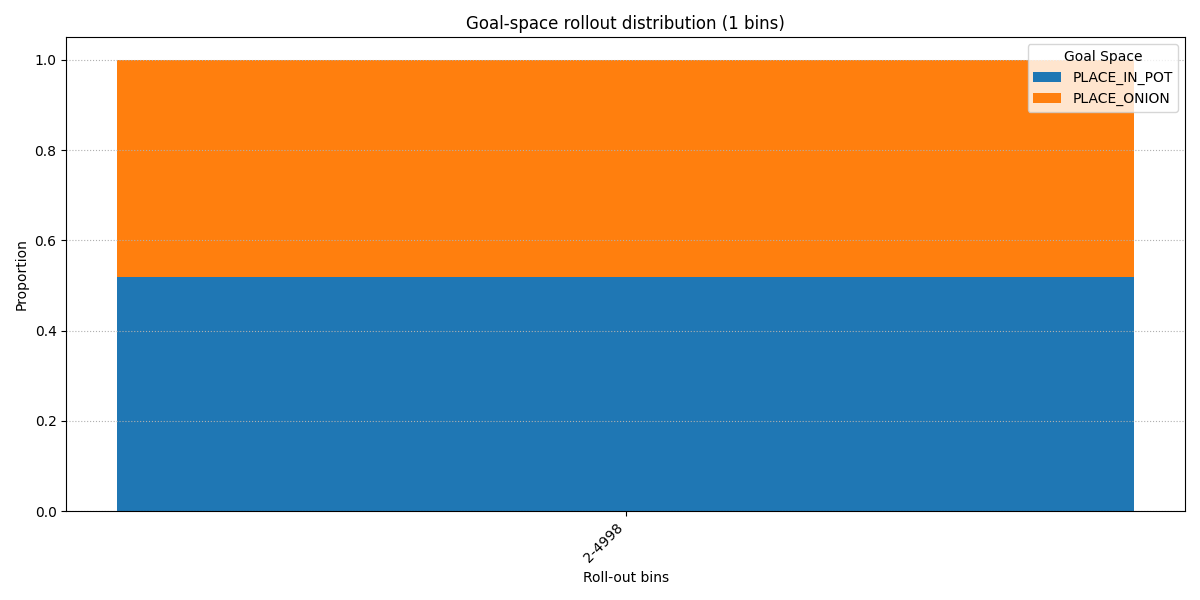
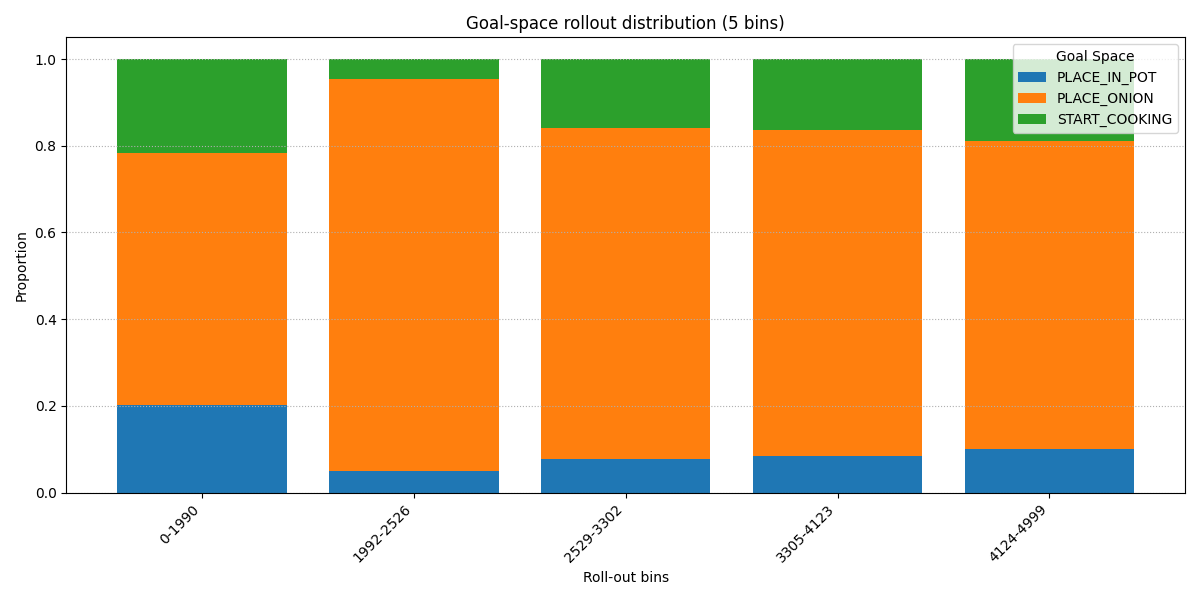
Semi working version with shared goal exploration

diff --git a/IMGEP_agent/agent/agent.py b/IMGEP_agent/agent/agent.py
@@ -73,6 +73,8 @@ class IMGEPAgent(Agent):
         ]  # Put the main neuro policy in the first position
 
     def action(self, state: OvercookedState) -> Action:
+        if self.goal_reach_time_step:
+            return Action.STAY
         self.t += 1
 
         gs = self.goal_space_neuro_policies[-1].goal
@@ -103,26 +105,36 @@ class IMGEPAgent(Agent):
         obs_vec = get_goal_policy_input_vector(state, self.mdp, self.mp, self.agent_id)
 
         # ----------------- high-level action selection ----------------------
-        neuro_policy_token = self.goal_space_neuro_policies[-1].neuro_policy.select_token(obs_vec, greedy=True)
+        neuro_policy_token = self.goal_space_neuro_policies[-1].neuro_policy.select_token(obs_vec, greedy=exploit)
+        if neuro_policy_token >= len(HighLevelActions):
+            selected_goal = self.goal_spaces[neuro_policy_token - len(HighLevelActions)]
+            # If the chosen goal is itself or the fitness is not high enough, do not use the decision to use this
+            rec = self.kb.nearest(goal=selected_goal, k=1, exploit=True)
+
+            if rec and rec[0].fitness >= self.config.minimum_goal_fitness and selected_goal != gs:
+                self.goal_space_neuro_policies.append(
+                    GoalSpaceNeuroPolicy(
+                        goal=selected_goal,
+                        neuro_policy=get_neuro_policy(
+                            selected_goal=selected_goal,
+                            kb=self.kb,
+                            exploit=True,
+                            goal_spaces=self.goal_spaces,
+                            config=self.config
+                        ),
+                        exploit=True
+                    )
+                )
+            neuro_policy_token = self.goal_space_neuro_policies[-1].neuro_policy.select_token(obs_vec, greedy=exploit)
+
         if neuro_policy_token < len(HighLevelActions):
             # If the token is a high-level action, we need to get the motion goals for that action
             token = HighLevelActions(neuro_policy_token)
+            if token != HighLevelActions.WAIT:
+                self.rollout_fitness -= 0.01
             motion_goals = get_motion_goals(self.mlam, self.mdp, token, state)
             self.path = get_plan(state.players[self.agent_id].pos_and_or, motion_goals, self.mlam)
-        else:
-            self.goal_space_neuro_policies.append(
-                GoalSpaceNeuroPolicy(
-                    goal=self.goal_spaces[neuro_policy_token - len(HighLevelActions)],
-                    neuro_policy=get_neuro_policy(
-                        selected_goal=self.goal_spaces[neuro_policy_token - len(HighLevelActions)],
-                        kb=self.kb,
-                        exploit=True,
-                        goal_spaces=self.goal_spaces,
-                        config=self.config
-                    ),
-                    exploit=True
-                )
-            )
+
 
         if not self.path:
             legal_actions = list(Action.MOTION_ACTIONS)
@@ -142,8 +154,10 @@ class IMGEPAgent(Agent):
         goal = self.goal_space_neuro_policies[0].goal  # The first goal is the main goal space
         neuro_policy = self.goal_space_neuro_policies[0].neuro_policy
         exploit = self.goal_space_neuro_policies[0].exploit
-        prev_record = self.kb.nearest(goal=goal, k=1, exploit=exploit)
-        prev_f = prev_record[0].fitness if prev_record else 0.0
+        prev_record = self.kb.nearest(goal=goal, k=self.config.ir_avg_prev_records, exploit=exploit)
+        # Calculate avarage fitness of the previous records
+        avg_fitness = sum(r.fitness for r in prev_record) / len(prev_record) if prev_record else 0.0
+        prev_f = avg_fitness if prev_record else 0.0
         rollout_fitness = self.rollout_fitness
         # rollout_fitness += partner_fitness / 4
         fitness_difference = rollout_fitness - prev_f
@@ -152,7 +166,7 @@ class IMGEPAgent(Agent):
         if exploit:
             record_amount = 1
         else:
-            record_amount = max(1, int(5 * (r_i + shared_reward / 50)))
+            record_amount = max(1, int(r_i * self.config.neuro_evolution_multiplier))
 
         # Get the previous rollout index from the kb and increment it
         prev_record = self.kb.nearest(1)

diff --git a/IMGEP_agent/find_hyper_params.py b/IMGEP_agent/find_hyper_params.py
@@ -25,11 +25,10 @@ class AgentConfigEstimator(BaseEstimator):
                  adaptive_noise_std: float = 0.1,
                  parent_policy_recent: int = 50,
                  mutate_records: int = 64,
-                 goal_ema_k: int = 50,
-                 goal_greedy_prob: float = 0.8,
+                 neuro_evolution_multiplier: int = 10,
                  n_recent: int = 100,
-                 ir_bonus_cap: float = 0.20,
-                 ir_bonus_slope: float = 0.01,
+                 minimum_goal_fitness: float = 0.5,
+                 ir_avg_prev_records: int = 10,
                  random_state: int = 42):
         # These will be tuned by sklearn
         self.exploit_prob = exploit_prob
@@ -37,11 +36,10 @@ class AgentConfigEstimator(BaseEstimator):
         self.adaptive_noise_std = adaptive_noise_std
         self.parent_policy_recent = parent_policy_recent
         self.mutate_records = mutate_records
-        self.goal_ema_k = goal_ema_k
-        self.goal_greedy_prob = goal_greedy_prob
+        self.neuro_evolution_multiplier = neuro_evolution_multiplier
         self.n_recent = n_recent
-        self.ir_bonus_cap = ir_bonus_cap
-        self.ir_bonus_slope = ir_bonus_slope
+        self.minimum_goal_fitness = minimum_goal_fitness
+        self.ir_avg_prev_records = ir_avg_prev_records
         self.random_state = random_state
 
         self.best_score_ = None
@@ -55,6 +53,10 @@ class AgentConfigEstimator(BaseEstimator):
             parent_policy_recent=self.parent_policy_recent,
             mutate_records=self.mutate_records,
             n_recent=self.n_recent,
+            neuro_evolution_multiplier=self.neuro_evolution_multiplier,
+            minimum_goal_fitness=self.minimum_goal_fitness,
+            ir_avg_prev_records=self.ir_avg_prev_records,
+
         )
 
         # 2) set up env + agents exactly as in your script
@@ -115,7 +117,7 @@ class AgentConfigEstimator(BaseEstimator):
                 ag.finish_rollout(info,
                                   partner.goal_space_neuro_policies[0].goal.goal_id,
                                   partner.rollout_fitness)
-                total_fitness += partner.rollout_fitness
+                total_fitness += agents[idx].rollout_fitness
 
         # average fitness per rollout
         avg_fitness = total_fitness / (ROLLOUTS * 2)
@@ -132,17 +134,20 @@ class AgentConfigEstimator(BaseEstimator):
 
 param_distributions: Dict[str, Any] = {
     'exploit_prob': np.linspace(0.0, 1.0, 11),
-    'neuro_policy_hidden_dim': [10, 20, 50, 100],
+    'neuro_policy_hidden_dim': [50, 100, 125, 150, 200],
     'adaptive_noise_std': np.linspace(0.0, 0.5, 11),
     'parent_policy_recent': [10, 50, 100],
-    'mutate_records': [20, 40, 80, 120],
-    'n_recent': [30, 50, 80],
+    'mutate_records': [5, 10, 20, 40],
+    'n_recent': [25, 50, 75, 100],
+    'neuro_evolution_multiplier': [2, 5, 10, 15],
+    'ir_avg_prev_records': [5, 10, 20, 40],
+    'minimum_goal_fitness': np.linspace(0.4, 1.0, 11),
 }
 ps = PredefinedSplit(test_fold=[0])
 optimizer = RandomizedSearchCV(
     estimator=AgentConfigEstimator(random_state=42),
     param_distributions=param_distributions,
-    n_iter=20,
+    n_iter=50,
     cv=ps,
     scoring=None,  # uses estimator.score()
     random_state=42,

diff --git a/IMGEP_agent/agent/goals/goal_spaces.py b/IMGEP_agent/agent/goals/goal_spaces.py
@@ -2,7 +2,6 @@ from enum import IntEnum
 from typing import List
 
 from IMGEP_agent.agent.helpers.item_codes import ItemCode
-from IMGEP_agent.hyper_parameters import HORIZON
 from overcooked_ai_py.mdp.actions import Action
 from overcooked_ai_py.mdp.layout_generator import COUNTER, POT, TYPE_TO_CODE
 from overcooked_ai_py.mdp.overcooked_mdp import OvercookedGridworld, OvercookedState, PlayerState
@@ -37,7 +36,7 @@ def pick_object_space(goal_id: GoalSpaceEnum, object_code: int) -> Goal:
                 agent_id: int, mdp: OvercookedGridworld):
         if pick_step is None:
             return 0.0
-        return 1.0 - (pick_step / max(HORIZON, 1))
+        return 1.0
 
     def success(agent_id: int, state: OvercookedState, previous_state: OvercookedState,
                 mdp: OvercookedGridworld):
@@ -56,7 +55,7 @@ def place_object_space(goal_id: GoalSpaceEnum, object_code: int, terrain_type: i
                 agent_id: int, mdp: OvercookedGridworld):
         if pick_step is None:
             return 0.0
-        return 1.0 - (pick_step / max(HORIZON, 1))
+        return 1.0
 
     def success(agent_id: int, state: OvercookedState, previous_state: OvercookedState,
                 mdp: OvercookedGridworld):
@@ -155,8 +154,7 @@ def create_goal_spaces() -> List[Goal]:
     return [
         place_object_space(GoalSpaceEnum.PLACE_ONION, ItemCode.ONION.value, TYPE_TO_CODE[COUNTER]),
         place_object_space(GoalSpaceEnum.PLACE_IN_POT, ItemCode.ONION.value, TYPE_TO_CODE[POT]),
-        # pick_object_space(GoalSpaceEnum.PICKUP_ONION, ItemCode.ONION.value),
-        # start_cooking_space(),
+        start_cooking_space(),
         # pickup_soup_space(),
     ]
 

diff --git a/IMGEP_agent/hyper_parameters.py b/IMGEP_agent/hyper_parameters.py
@@ -1,8 +1,8 @@
 # ROLLOUT PARAMETERS
-HORIZON = 50  # number of steps to run per rollout
-ROLLOUTS = 5000  # number of rollouts to run
+HORIZON = 15  # number of steps to run per rollout
+ROLLOUTS = 10000  # number of rollouts to run
 LAYOUT_ID = 22  # layout index to use from the layouts list in overcooked_ai_py
-LOAD_KB = False  # whether to load the knowledge base from a file or not
+LOAD_KB = True  # whether to load the knowledge base from a file or not
 
 # ---- INTRINSIC REWARD ---
 IR_BONUS_CAP: float = 0.20
@@ -14,13 +14,19 @@ from dataclasses import dataclass
 @dataclass
 class AgentConfig:
     # -------- AGENT ----------
-    exploit_prob: float = 0.5
+    exploit_prob: float = 0.2
 
     # ------ NEURO POLICY -----
-    neuro_policy_hidden_dim: int = 20
-    adaptive_noise_std: float = 0.25
+    neuro_policy_hidden_dim: int = 100
+    adaptive_noise_std: float = 0.1
     parent_policy_recent: int = 100
-    mutate_records: int = 20
+    mutate_records: int = 50
+    neuro_evolution_multiplier: int = 10
 
     # ----- GOAL SELECTION ----
-    n_recent: int = 80
+    n_recent: int = 75
+
+    # Selectin of sub policies
+    minimum_goal_fitness: float = 0.52
+
+    ir_avg_prev_records: int = 40

diff --git a/IMGEP_agent/agent/neuro_policy/high_level_actions.py b/IMGEP_agent/agent/neuro_policy/high_level_actions.py
@@ -5,8 +5,8 @@ from overcooked_ai_py.planning.planners import MediumLevelActionManager
 
 
 class HighLevelActions(IntEnum):
-    GO_ONION, GO_DISH, PUT_ONION, PUT_TOMATO, GO_READY_POT, GO_SERVE, START_COOKING, GO_COUNTER, WAIT, ONION_FROM_DISPENSER = range(
-        10)
+    GO_ONION, GO_DISH, PUT_ONION, GO_READY_POT, GO_SERVE, START_COOKING, GO_COUNTER, WAIT, ONION_FROM_DISPENSER = range(
+        9)
 
 
 def get_motion_goals(mlam: MediumLevelActionManager, mdp: OvercookedGridworld,
@@ -24,8 +24,6 @@ def get_motion_goals(mlam: MediumLevelActionManager, mdp: OvercookedGridworld,
             return mlam.pickup_dish_actions(counter_objects)
         case HighLevelActions.PUT_ONION:
             return mlam.put_onion_in_pot_actions(pots_object)
-        case HighLevelActions.PUT_TOMATO:
-            return mlam.put_tomato_in_pot_actions(pots_object)
         case HighLevelActions.GO_READY_POT:
             return mlam.pickup_soup_with_dish_actions(pots_object)
         case HighLevelActions.GO_SERVE:

diff --git a/IMGEP_agent/agent/neuro_policy/neuro_policy.py b/IMGEP_agent/agent/neuro_policy/neuro_policy.py
@@ -95,6 +95,6 @@ def get_neuro_policy(selected_goal: Goal, kb: KnowledgeBase, goal_spaces: List[G
     # explore: pick a random parent policy to mutate from
     parent_policy = random.choice(rec)
     adaptive_noise = config.adaptive_noise_std / (
-            parent_policy.intrinsic_reward + config.adaptive_noise_std)  # more noise when progress is low
+            max(0, parent_policy.intrinsic_reward) + config.adaptive_noise_std)  # more noise when progress is low
     child_theta = parent_policy.theta + np.random.normal(0, adaptive_noise, parent_policy.theta.shape)
     return NeuroPolicy(theta=child_theta, goal_spaces=goal_spaces, config=config)

diff --git a/IMGEP_agent/visualise/visualise.py b/IMGEP_agent/visualise/visualise.py
@@ -227,12 +227,12 @@ def make_graphs():
 
         plot_fitness(data,
                      f"visualise/stats/fitness_plot_{ag}.png",
-                     smooth_k=1,
+                     smooth_k=5,
                      colors=colors)
 
         plot_goalspace_distribution(data,
                                     f"visualise/stats/goalspace_dist_{ag}.png",
-                                    num_bins=1,
+                                    num_bins=5,
                                     colors=colors)
 
         print_statistics(path, data)

diff --git a/IMGEP_agent/agent/goals/goal_policy.py b/IMGEP_agent/agent/goals/goal_policy.py
@@ -69,7 +69,7 @@ def select_goal(
         mapped_id = other_recent[0].partner_goal_id
         mapped_goal = get_goal_by_goal_id(mapped_id, goal_spaces)
         ours = own_kb.nearest(10, goal=mapped_goal, exploit=True)
-        if ours and max(r.fitness for r in ours) > 0.5:
+        if ours and max(r.fitness for r in ours) > config.minimum_goal_fitness:
             return mapped_goal, True
 
     # Fallback: revert to one of our top

diff --git a/IMGEP_agent/agent/goals/goal_policy_input_vector.py b/IMGEP_agent/agent/goals/goal_policy_input_vector.py
@@ -17,6 +17,7 @@ def get_goal_policy_input_vector(
         player_id: int,
 ) -> np.ndarray:
     me: PlayerState = state.players[player_id]
+    other: PlayerState = state.players[1 - player_id]
     pot_states = mdp.get_pot_states(state)
 
     # Held object one-hot
